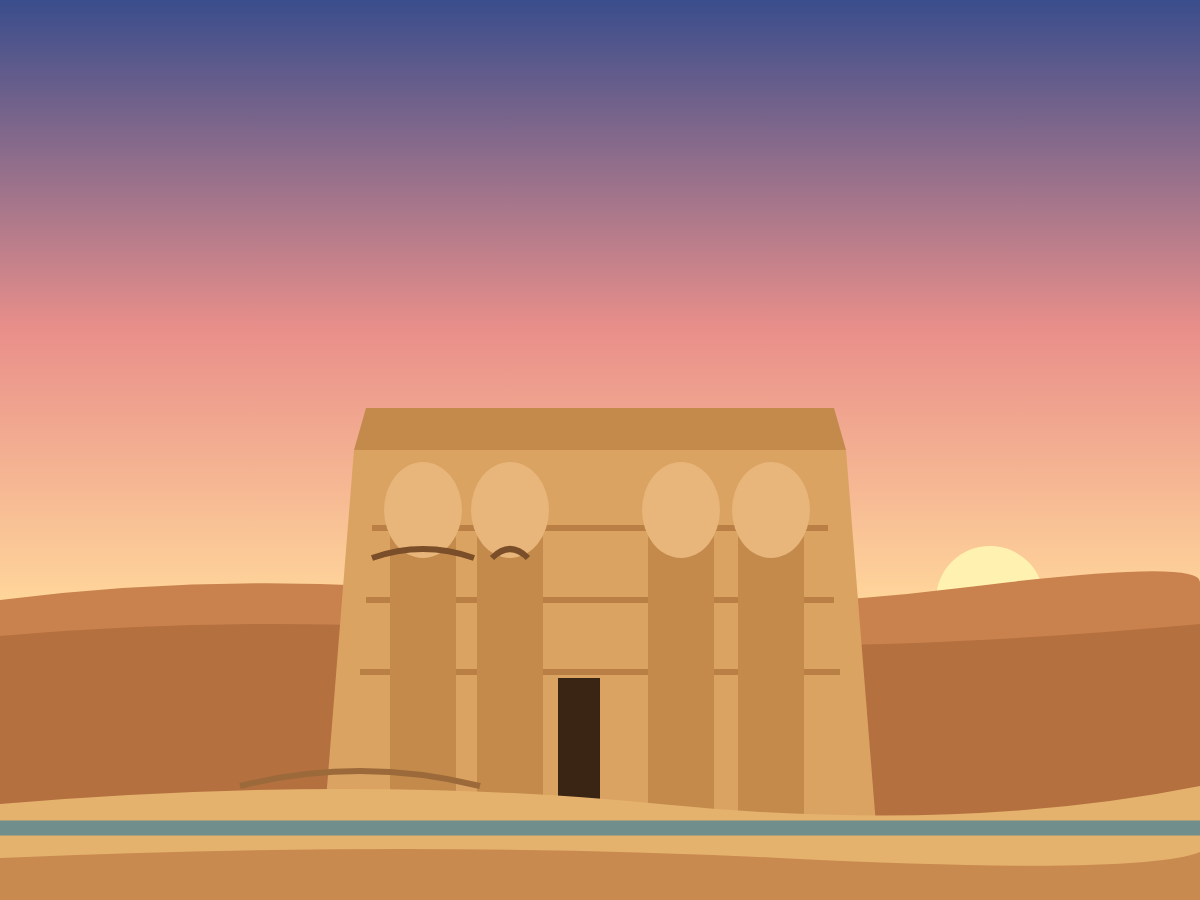
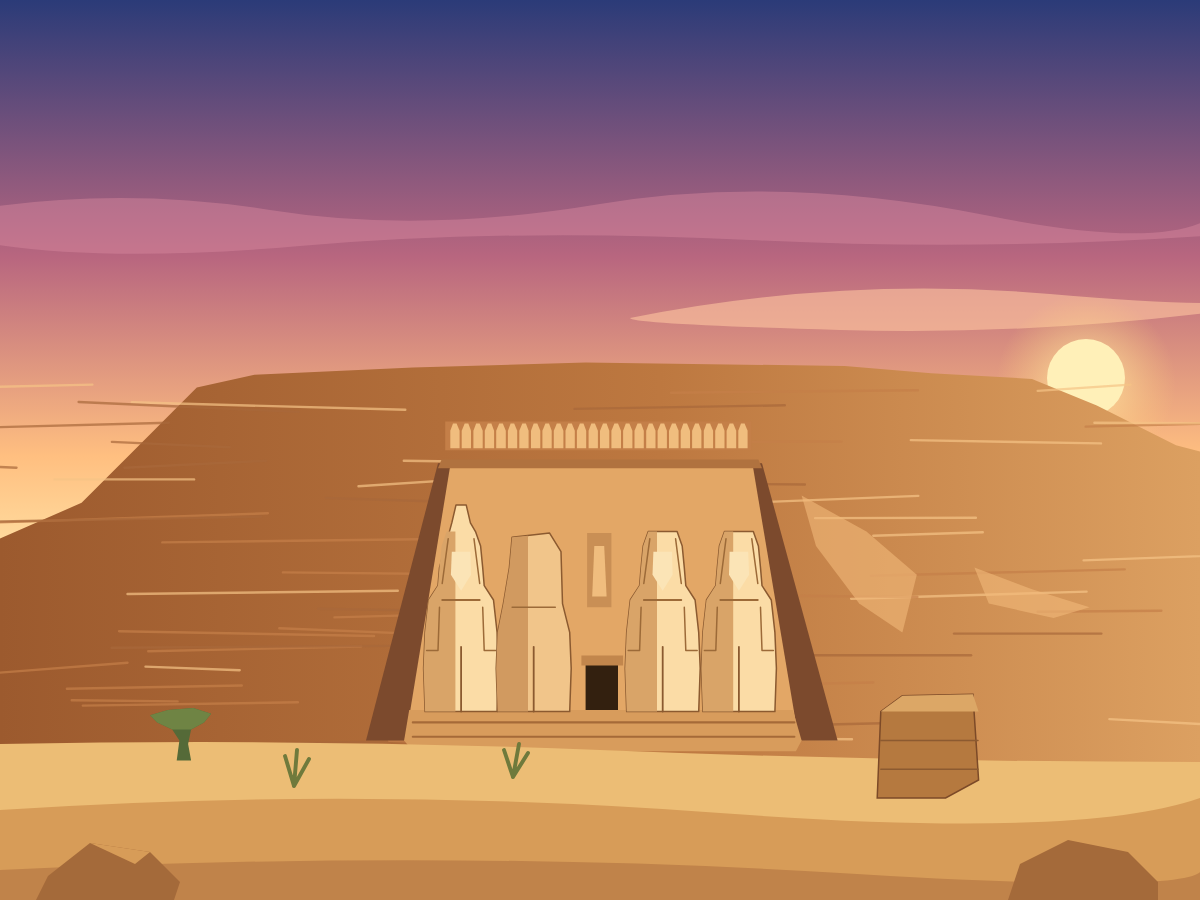
Postcards: redo Cliffs of Moher and Abu Simbel (Sonnet, approved)

diff --git a/postcards/CREDITS.md b/postcards/CREDITS.md
@@ -130,10 +130,6 @@ All references are from Wikimedia Commons and are public domain, CC0 or CC BY. F
 | cz-ceskykrumlov (emblem) | Linden leaf: copied from em-linden-leaf | none | Existing QuickFX emblem | Own work |
 | hu-tihanyabbey | Tihany Abbey twin towers with onion domes | [Tihany, Hungary - panoramio (23).jpg](https://commons.wikimedia.org/wiki/File:Tihany,_Hungary_-_panoramio_(23).jpg) | Victor Belousov | CC BY 3.0 (https://creativecommons.org/licenses/by/3.0) |
 | hu-tihanyabbey (emblem) | Red paprika: copied from em-red-paprika | none | Existing QuickFX emblem | Own work |
-| ie-cliffsofmoher | Cliff face and strata, grassy top, sea | [CliffsofMoher 001.jpg](https://commons.wikimedia.org/wiki/File:CliffsofMoher_001.jpg) | Höstblomma | CC BY 3.0 (https://creativecommons.org/licenses/by/3.0) |
-| ie-cliffsofmoher (emblem) | Shamrock: copied from em-shamrock | none | Existing QuickFX emblem | Own work |
-| eg-abusimbel | Great Temple facade with four seated colossi | [Großer Tempel (Abu Simbel) 01.jpg](https://commons.wikimedia.org/wiki/File:Gro%C3%9Fer_Tempel_(Abu_Simbel)_01.jpg) | Olaf Tausch | CC BY 3.0 (https://creativecommons.org/licenses/by/3.0) |
-| eg-abusimbel (emblem) | Blue lotus: copied from em-blue-lotus | none | Existing QuickFX emblem | Own work |
 | fi-olavinlinna | Olavinlinna towers, conical roofs and curtain wall | [Olavinlinna in Savonlinna Finland.JPG](https://commons.wikimedia.org/wiki/File:Olavinlinna_in_Savonlinna_Finland.JPG) | Pöllö | CC BY 2.5 (https://creativecommons.org/licenses/by/2.5) |
 | dk-kronborgcastle | Kronborg block, green copper spires | [20200815 Yachthamnen og Kronborg Slot Helsingor 001-2 (50234448536).jpg](https://commons.wikimedia.org/wiki/File:20200815_Yachthamnen_og_Kronborg_Slot_Helsingor_001-2_(50234448536).jpg) | Johan Wessman / News Oresund | CC BY 2.0 (https://creativecommons.org/licenses/by/2.0) |
 | se-dalarna | Red house with white trim, chimneys | [Suntak Sweden 01.JPG](https://commons.wikimedia.org/wiki/File:Suntak_Sweden_01.JPG) | Nasko | CC0 (https://creativecommons.org/publicdomain/zero/1.0/deed.en) |
@@ -145,3 +141,11 @@ All references are from Wikimedia Commons and are public domain, CC0 or CC BY. F
 | za-kruger | Adult elephant and calf at the waterhole | [Finding a nice cool drink (394400272).jpg](https://commons.wikimedia.org/wiki/File:Finding_a_nice_cool_drink_(394400272).jpg) | Chris Eason | CC BY 2.0 (https://creativecommons.org/licenses/by/2.0) |
 | za-kruger (emblem) | King protea bloom, leaves and stem | [Protea cynaroides.jpg](https://commons.wikimedia.org/wiki/File:Protea_cynaroides.jpg) | Andrew Massyn | Public domain |
 | ma-merzouga | Sahara dune ridge and peaks | [Erg Chebbi (54239244419).jpg](https://commons.wikimedia.org/wiki/File:Erg_Chebbi_(54239244419).jpg) | Jorge Franganillo | CC BY 2.0 (https://creativecommons.org/licenses/by/2.0) |
+| ie-cliffsofmoher | Cliff face and strata, grassy top, sea | [CliffsofMoher 001.jpg](https://commons.wikimedia.org/wiki/File:CliffsofMoher_001.jpg) | Höstblomma | CC BY 3.0 (https://creativecommons.org/licenses/by/3.0) |
+| ie-cliffsofmoher (emblem) | Shamrock: copied from em-shamrock | none | Existing QuickFX emblem | Own work |
+| ie-cliffsofmoher | Cliff outline, grass top, sandstone shelf, sea stack, O'Brien's Tower, headland (strata lines are generated texture) | [CliffsofMoher 001.jpg](https://commons.wikimedia.org/wiki/File:CliffsofMoher_001.jpg) | Höstblomma | CC BY 3.0 (https://creativecommons.org/licenses/by/3.0) |
+| ie-cliffsofmoher (emblem) | Shamrock: unchanged, copied from em-shamrock | none | Existing QuickFX emblem | Own work |
+| eg-abusimbel | Great Temple facade with four seated colossi | [Großer Tempel (Abu Simbel) 01.jpg](https://commons.wikimedia.org/wiki/File:Gro%C3%9Fer_Tempel_(Abu_Simbel)_01.jpg) | Olaf Tausch | CC BY 3.0 (https://creativecommons.org/licenses/by/3.0) |
+| eg-abusimbel (emblem) | Blue lotus: copied from em-blue-lotus | none | Existing QuickFX emblem | Own work |
+| eg-abusimbel | Rock hill outline, recessed facade, four colossi, door, niche, frieze, platform, brick wall, acacia | [Großer Tempel (Abu Simbel) 01.jpg](https://commons.wikimedia.org/wiki/File:Gro%C3%9Fer_Tempel_(Abu_Simbel)_01.jpg) | Olaf Tausch | CC BY 3.0 (https://creativecommons.org/licenses/by/3.0) |
+| eg-abusimbel (emblem) | Blue lotus: unchanged, copied from em-blue-lotus | none | Existing QuickFX emblem | Own work |
